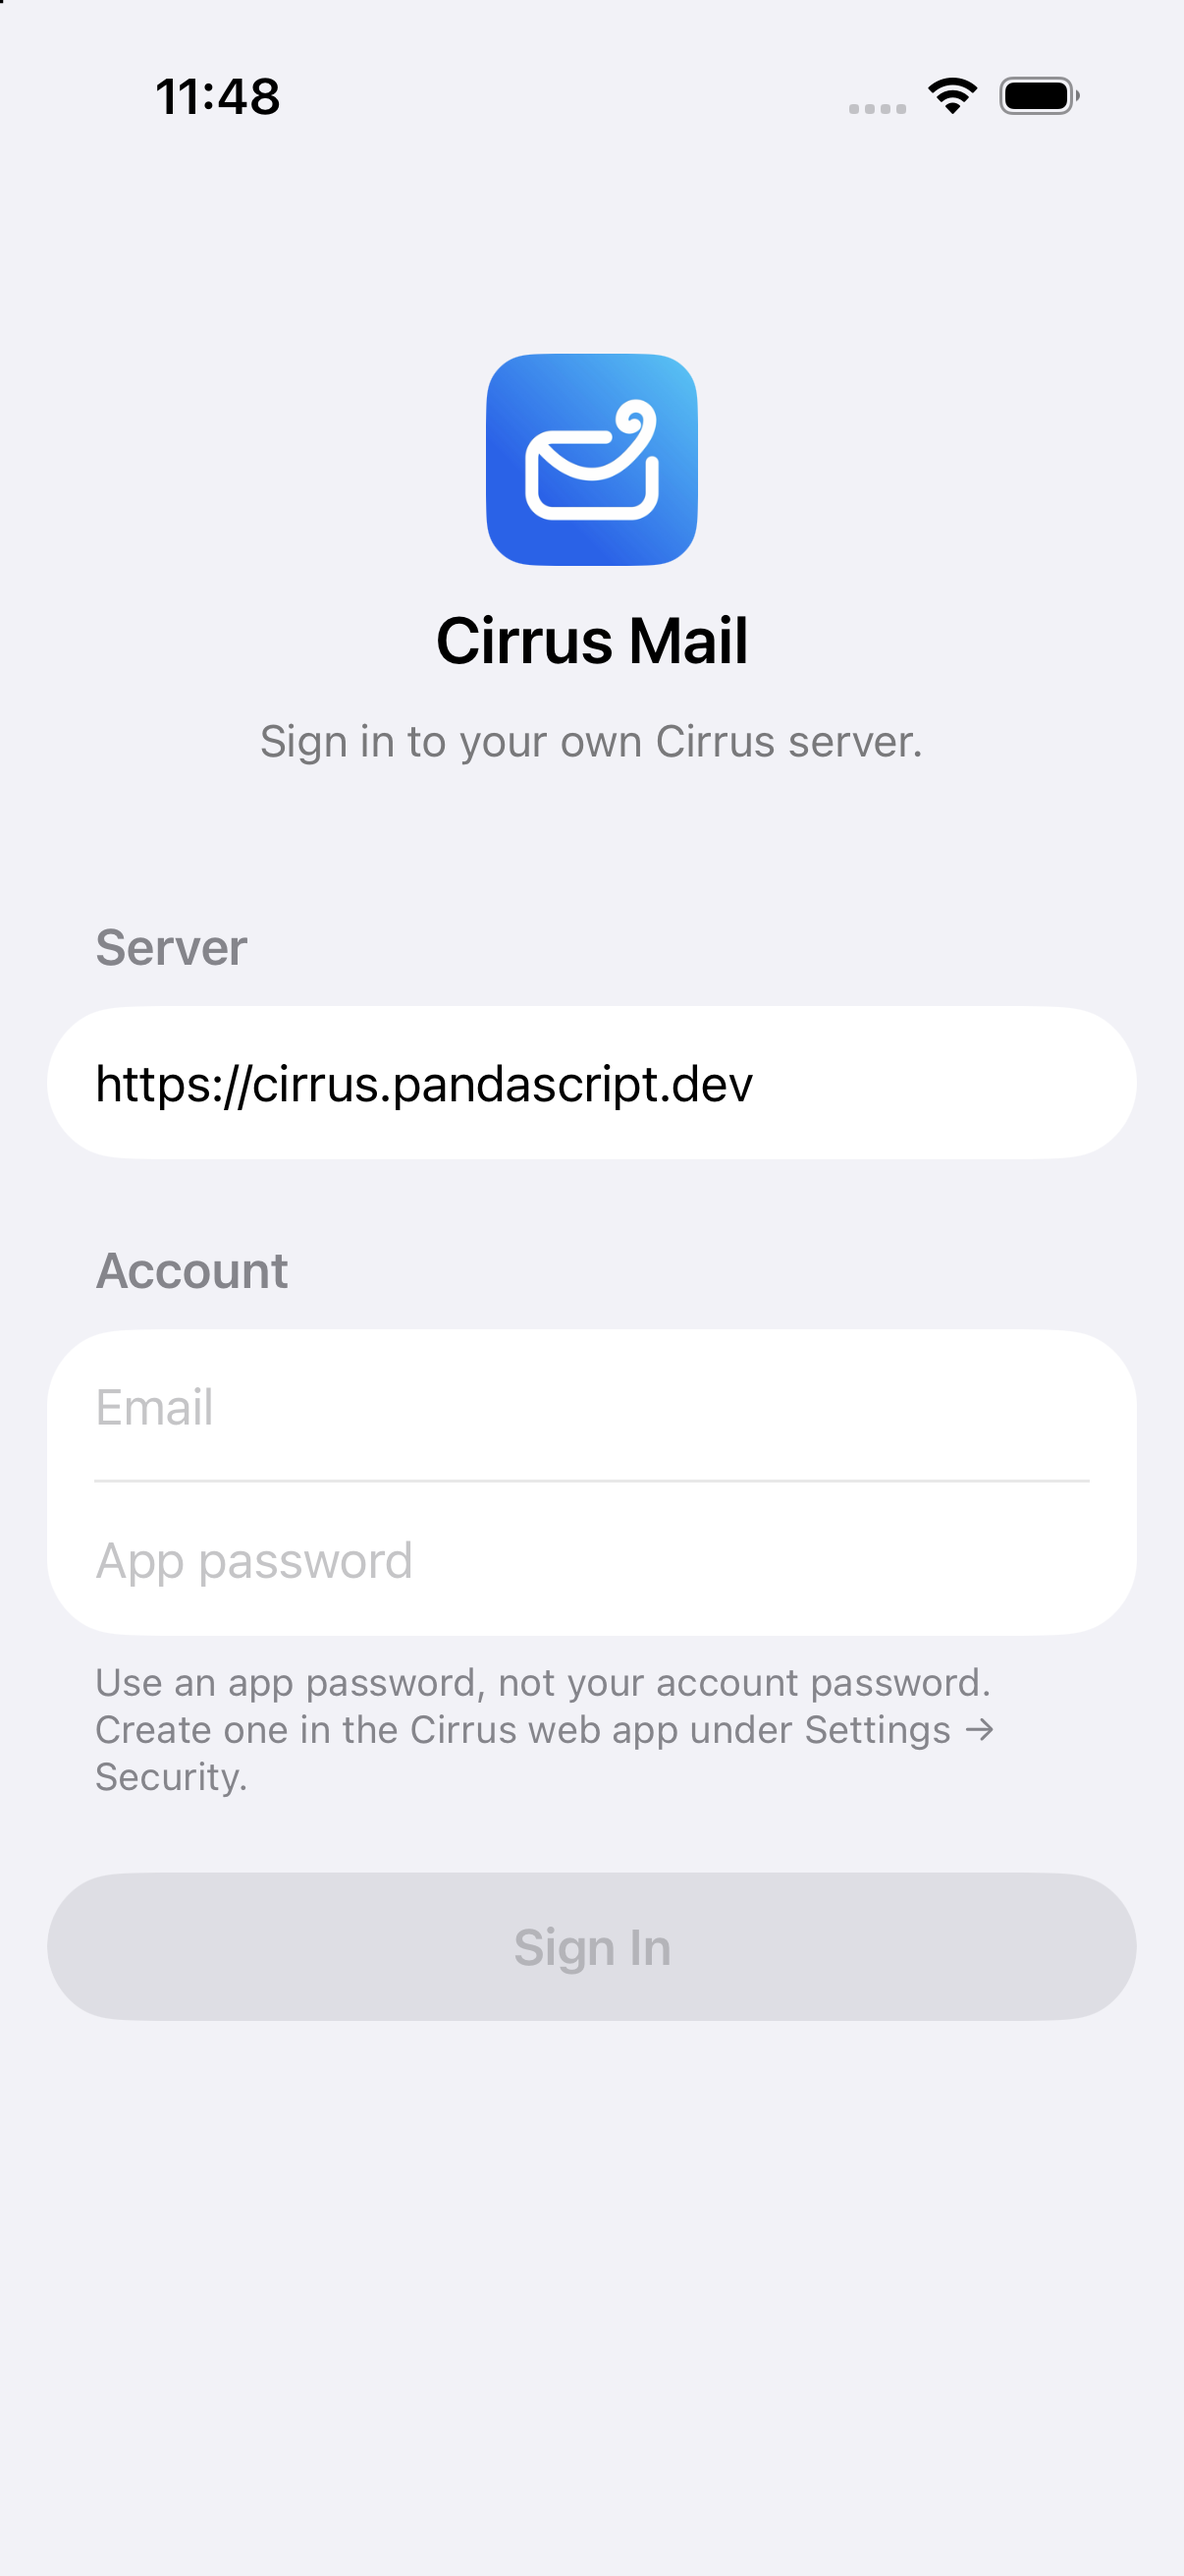
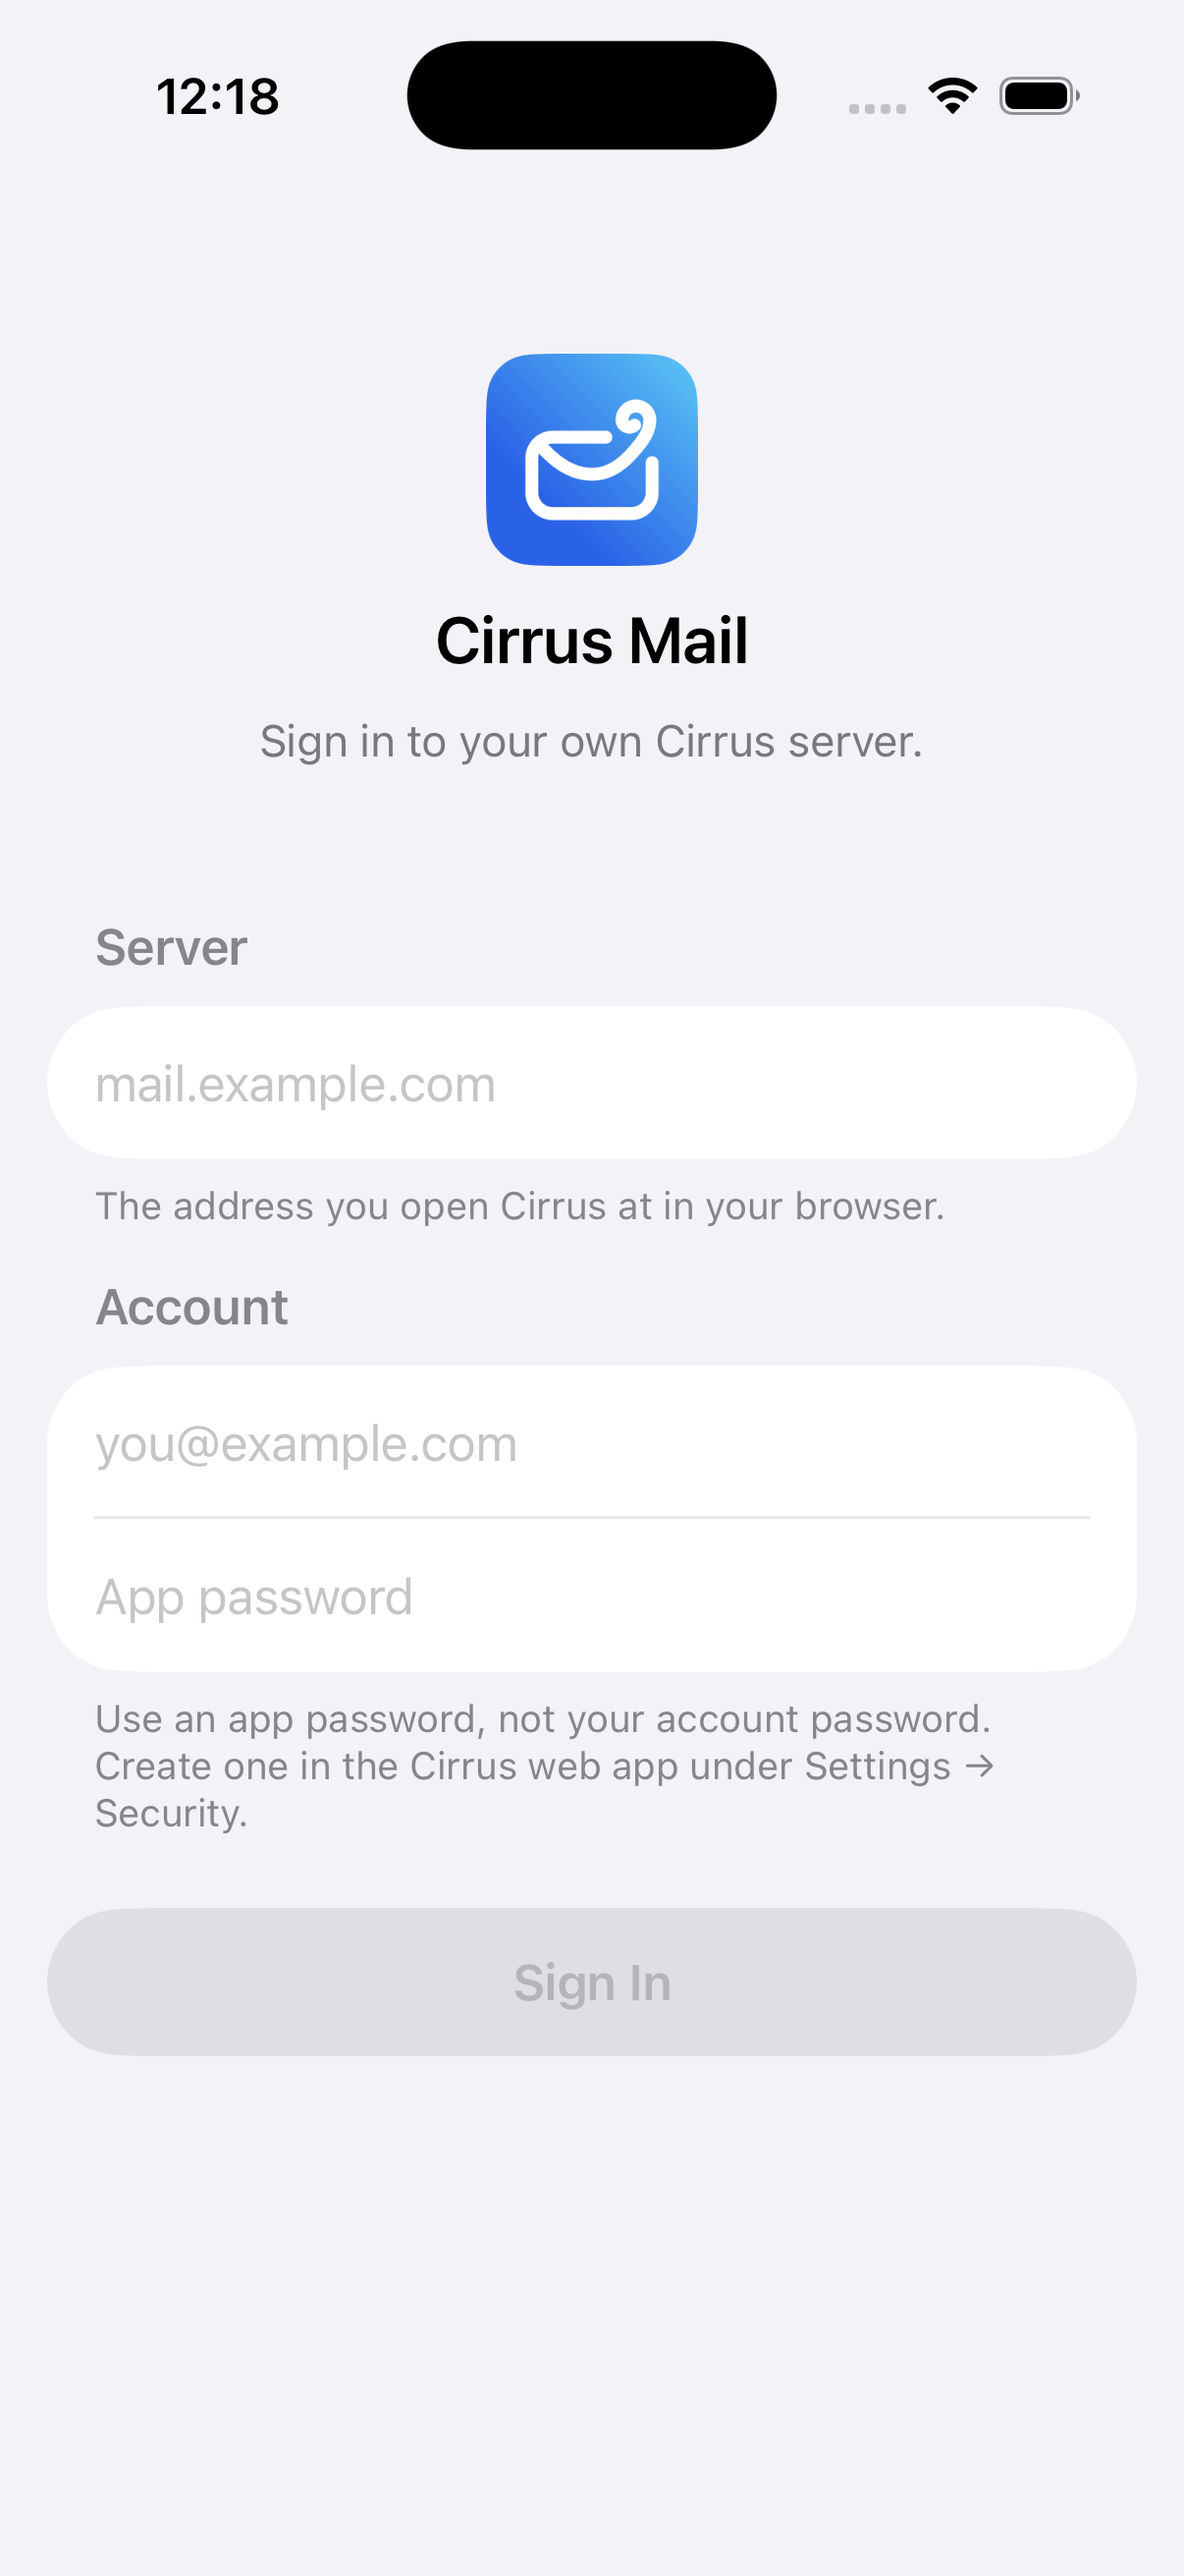
fix(ui): stop pre-filling the maintainer's server on sign-in
The server field defaulted to cirrus.pandascript.dev, so every tester
started pointed at someone else's instance. It now starts empty with
mail.example.com as a placeholder, plus a hint that it's the address
they open Cirrus at in the browser. The README screenshot is updated.

diff --git a/CirrusApp/Views/SignInView.swift b/CirrusApp/Views/SignInView.swift
@@ -5,7 +5,7 @@ struct SignInView: View {
     @Environment(\.dismiss) private var dismiss
     let isSheet: Bool
 
-    @State private var server = "https://cirrus.pandascript.dev"
+    @State private var server = ""
     @State private var email = ""
     @State private var password = ""
     @State private var isWorking = false
@@ -33,8 +33,8 @@ struct SignInView: View {
                     .listRowBackground(Color.clear)
                 }
 
-                Section("Server") {
-                    TextField("Server URL", text: $server)
+                Section {
+                    TextField("Server URL", text: $server, prompt: Text(verbatim: "mail.example.com"))
                         .keyboardType(.URL)
                         .textContentType(.URL)
                         .textInputAutocapitalization(.never)
@@ -42,10 +42,14 @@ struct SignInView: View {
                         .focused($focus, equals: .server)
                         .submitLabel(.next)
                         .onSubmit { focus = .email }
+                } header: {
+                    Text("Server")
+                } footer: {
+                    Text("The address you open Cirrus at in your browser.")
                 }
 
                 Section {
-                    TextField("Email", text: $email)
+                    TextField("Email", text: $email, prompt: Text(verbatim: "you@example.com"))
                         .keyboardType(.emailAddress)
                         .textContentType(.username)
                         .textInputAutocapitalization(.never)
